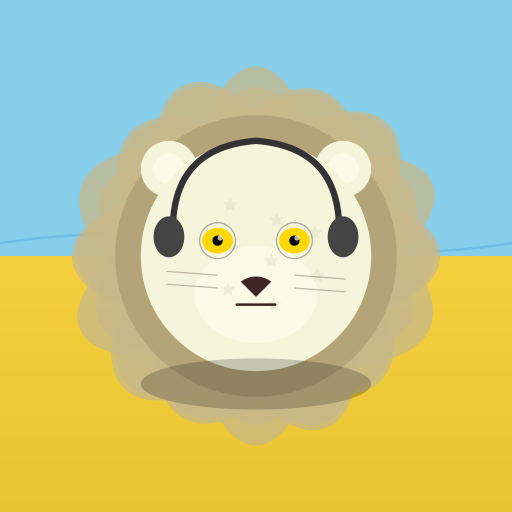
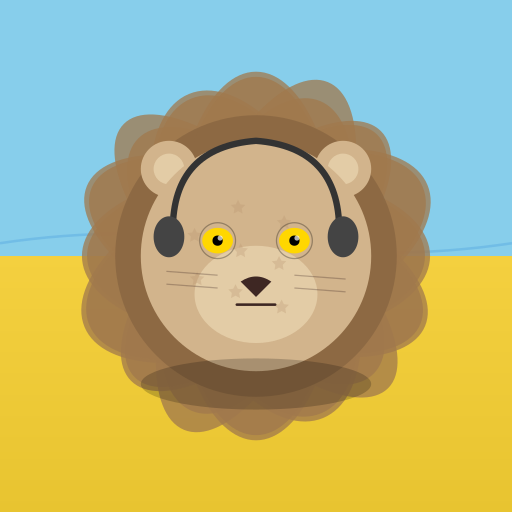
🦁 Daily evolution

diff --git a/README.md b/README.md
@@ -90,8 +90,8 @@ In **Actions** → **Daily Evolution** → **Enable workflow**
 
 <!-- LION_STATS_START -->
 - **Generation**: 1
-- **Age**: 124 days
-- **Mutations**: 32
+- **Age**: 125 days
+- **Mutations**: 34
 - **Rarity Score**: 18.3/100
 <!-- LION_STATS_END -->
 
